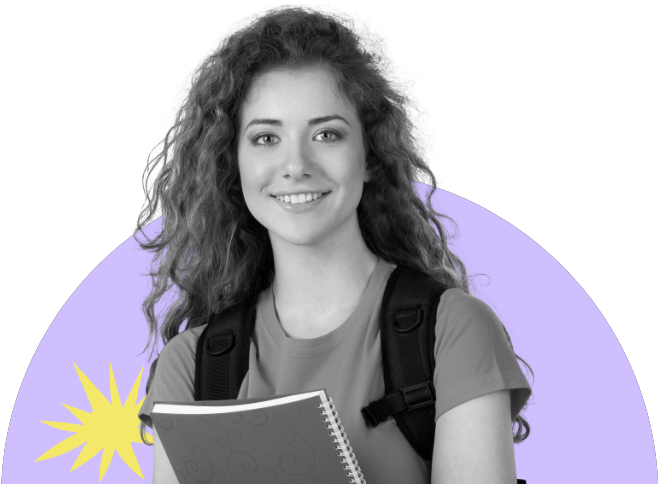
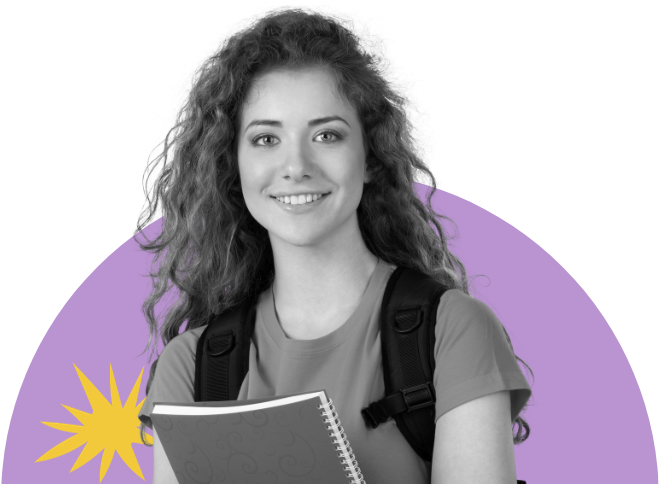
ajusta cores do projeto e fotos do projeto

diff --git a/teste01.html b/teste01.html
@@ -1,0 +1,94 @@
+<!DOCTYPE html>
+<html lang="pt-br">
+
+<head>
+    <meta charset="UTF-8">
+    <meta name="viewport" content="width=device-width, initial-scale=1.0">
+    <title>VitoSchool - LogIn</title>
+    <link rel="stylesheet" href="assets/css/style.css">
+    <link rel="stylesheet" href="assets/css/login.css">
+    <link rel="shortcut icon" href="assets/images/icone.png" type="image/x-icon">
+</head>
+
+<body>
+    <header class="cabecalho">
+        <div class="modo">
+            <button id="modoBtn" class="modo-btn">
+            <span class="icone-sol"><img src="assets/images/sun.svg" alt="icone sol"></span>
+            <span class="icone-lua"><img src="assets/images/moon.svg" alt="icone lua"></span></button>
+        </div>
+        <div class="container-logo">
+            <a href="index.html"><img src="assets/images/logo.png" alt="imagem com o nome VitoSchool"></a>
+        </div>
+
+    </header>
+    <main>
+        <div class="container-login">
+            <h2>Login</h2>
+            <form method="post" action="">
+                <label for="email">Email:</label>
+                <input type="text" id="email" name="email" required>
+
+                <label for="senha">Senha:</label>
+                <input type="password" id="senha" name="senha" required>
+
+                <button type="submit">Login</button>
+            </form>
+
+            <p><a href="recuperaSenha.php">Esqueceu sua senha?</a></p>
+        </div>
+        <div>
+            <span class="linha-vertical-laranja"><img src="assets/images/linha-vertical-laranja.png" alt=""></span>
+        </div>
+        <div class="container-login">
+            <div class="container-info">
+                <img src="assets/images/estudante.png" alt="imagem de uma estudante com livros">
+                <p>Transformando ideias em inovação. Conectamos sonhos à realidade por meio de soluções tecnológicas
+                    criativas e estratégicas. Seja bem-vindo ao futuro da inovação.</p>
+                    <button type="button"><a href="cadastro.php">Cadastre-se</a></button>
+            </div>
+        <!-- </div>        
+        <?php 
+        session_start();
+
+        //importa dos dados do banco com método include()
+        include("conexao.php");
+        
+        // Verificar se o formulário foi enviado
+        if ($_SERVER["REQUEST_METHOD"] == "POST") {
+        
+            // Obter dados do formulário
+            $email = $_POST["email"];
+            $senha = $_POST["senha"];
+        
+            // Consulta SQL para verificar as credenciais
+            $sql = "SELECT email, senha FROM cadastro WHERE email = '$email'";
+        
+            $result = $banco->query($sql);
+        
+        
+        
+            if ($result->num_rows > 0) {
+                // Usuário encontrado, verificar a senha
+                $row = $result->fetch_assoc();
+                if ($senha === $row["senha"]) {
+                    header("Location: home.php"); // Redirecionar para a página principal
+                    echo "Senha CORRETA";
+                } else {
+                }
+            } else {
+                echo "E-mail não encontrado";
+            }
+        
+            $banco->close();
+        }
+        
+        ?> -->
+    </main>
+    <footer>
+        <p>&copy; 2023 Vitória Fortes. Todos os direitos reservados.</p>
+    </footer>
+    <script src="modo.js"></script>
+</body>
+
+</html>

diff --git a/assets/css/style.css b/assets/css/style.css
@@ -1,23 +1,29 @@
+/* CSS para configurações gerais */
+
+/* Importa fontes google */
 @import url('https://fonts.googleapis.com/css2?family=Montserrat:wght@400;500;600;700&family=Questrial&display=swap');
 
+/* Cria variáveis com cores e fontes */
 :root {
     --fonte-titulo: 'Montserrat', sans-serif;
     --fonte-corpo: 'Questrial', sans-serif;
 
-    --fundo-escuro: #0F0F0F;
-    --fundo-escuro-fluido: #272829;
-    --fundo-claro: #FAF3F0;
-    --lilas: #D0BFFF;
-    --amarelo: #F4E869;
+    --preto: #0F0F0F;
+    --grafite: #272829;
+    --off-white: #FFFFDE;
+    --lilas: #BA94D1;
+    --amarelo: #F1C93B;
     --laranja: #E25E3E;
 }
 
+/* Configurações básicas */
+
 body {
     font-family: var(--fonte-corpo);
-    color: var(--fundo-claro);
+    color: var(--off-white);
     font-weight: 400;
     margin: 0;
-    background-color: var(--fundo-escuro);
+    background-color: var(--preto);
     display: flex;
     flex-direction: column;
     align-items: center;
@@ -36,7 +42,7 @@ a {
 }
 
 button a:hover, button a {
-    color: var(--fundo-escuro);
+    color: var(--preto);
 }
 
 a:hover {
@@ -76,8 +82,8 @@ input, select {
 
 /* modo claro */
 .modo-claro {
-    background-color: var(--fundo-claro);
-    color: var(--fundo-escuro);
+    background-color: var(--off-white);
+    color: var(--preto);
 }
 
 .modo-claro .icone-lua {
@@ -113,7 +119,7 @@ input, select {
 
 .modo-claro a {
     text-decoration: none;
-    color: var(--fundo-escuro);
+    color: var(--preto);
 }
 
 .modo-claro a:hover {
@@ -121,7 +127,7 @@ input, select {
 }
 
 .modo-claro button a:hover {
-    color: var(--fundo-escuro);
+    color: var(--preto);
 }
 
 .modo-claro button:hover {
